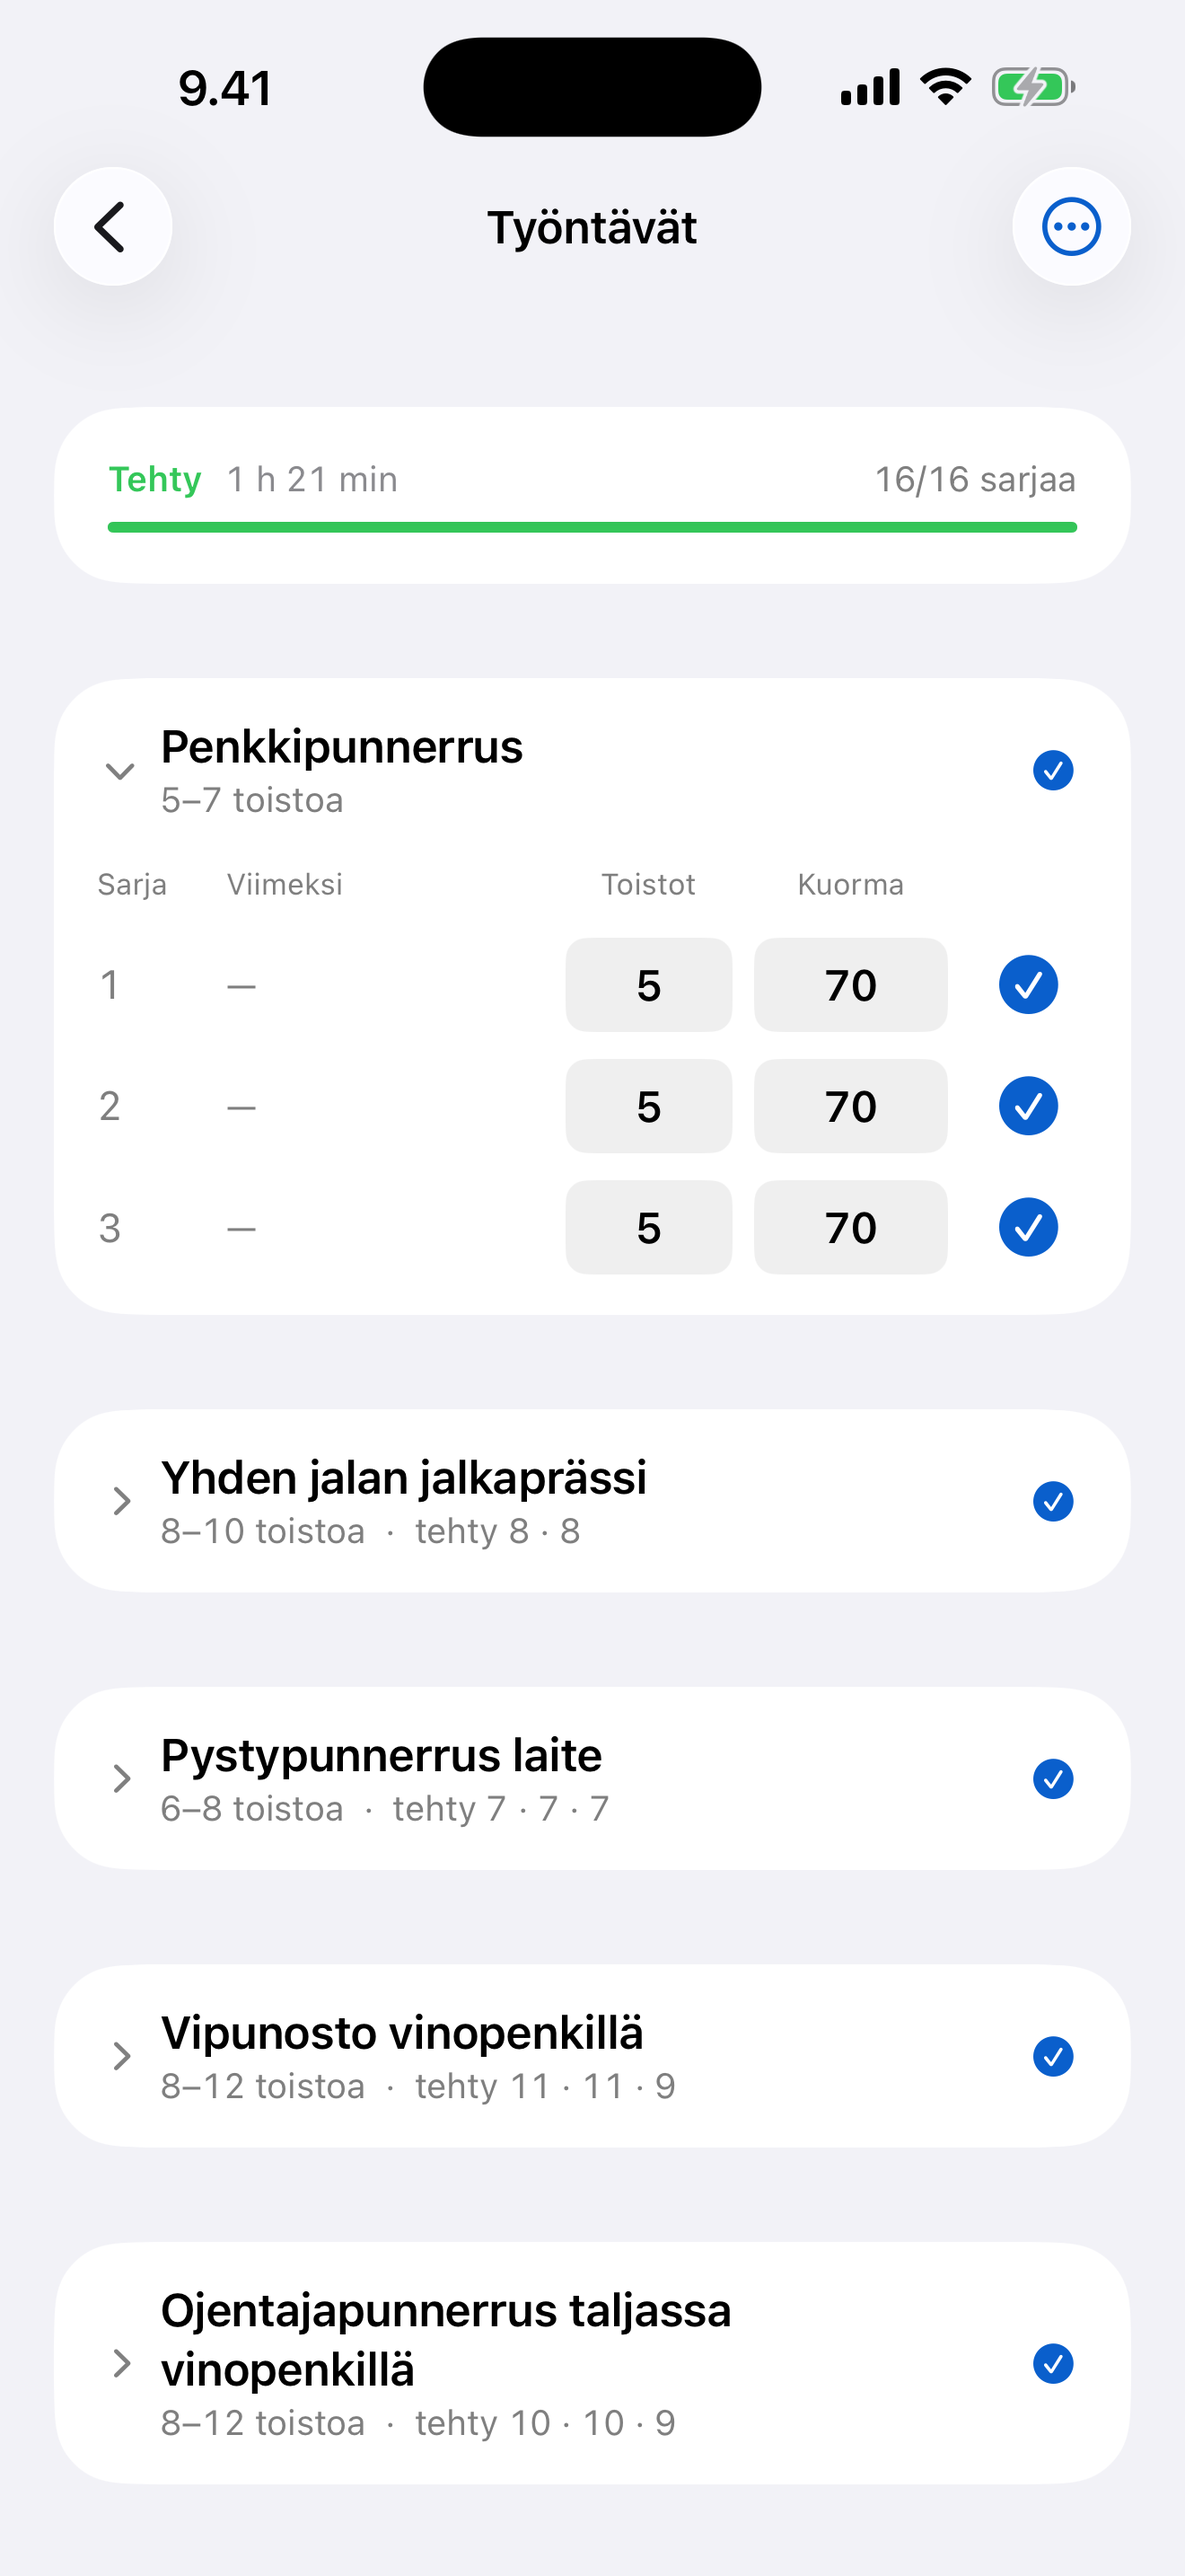
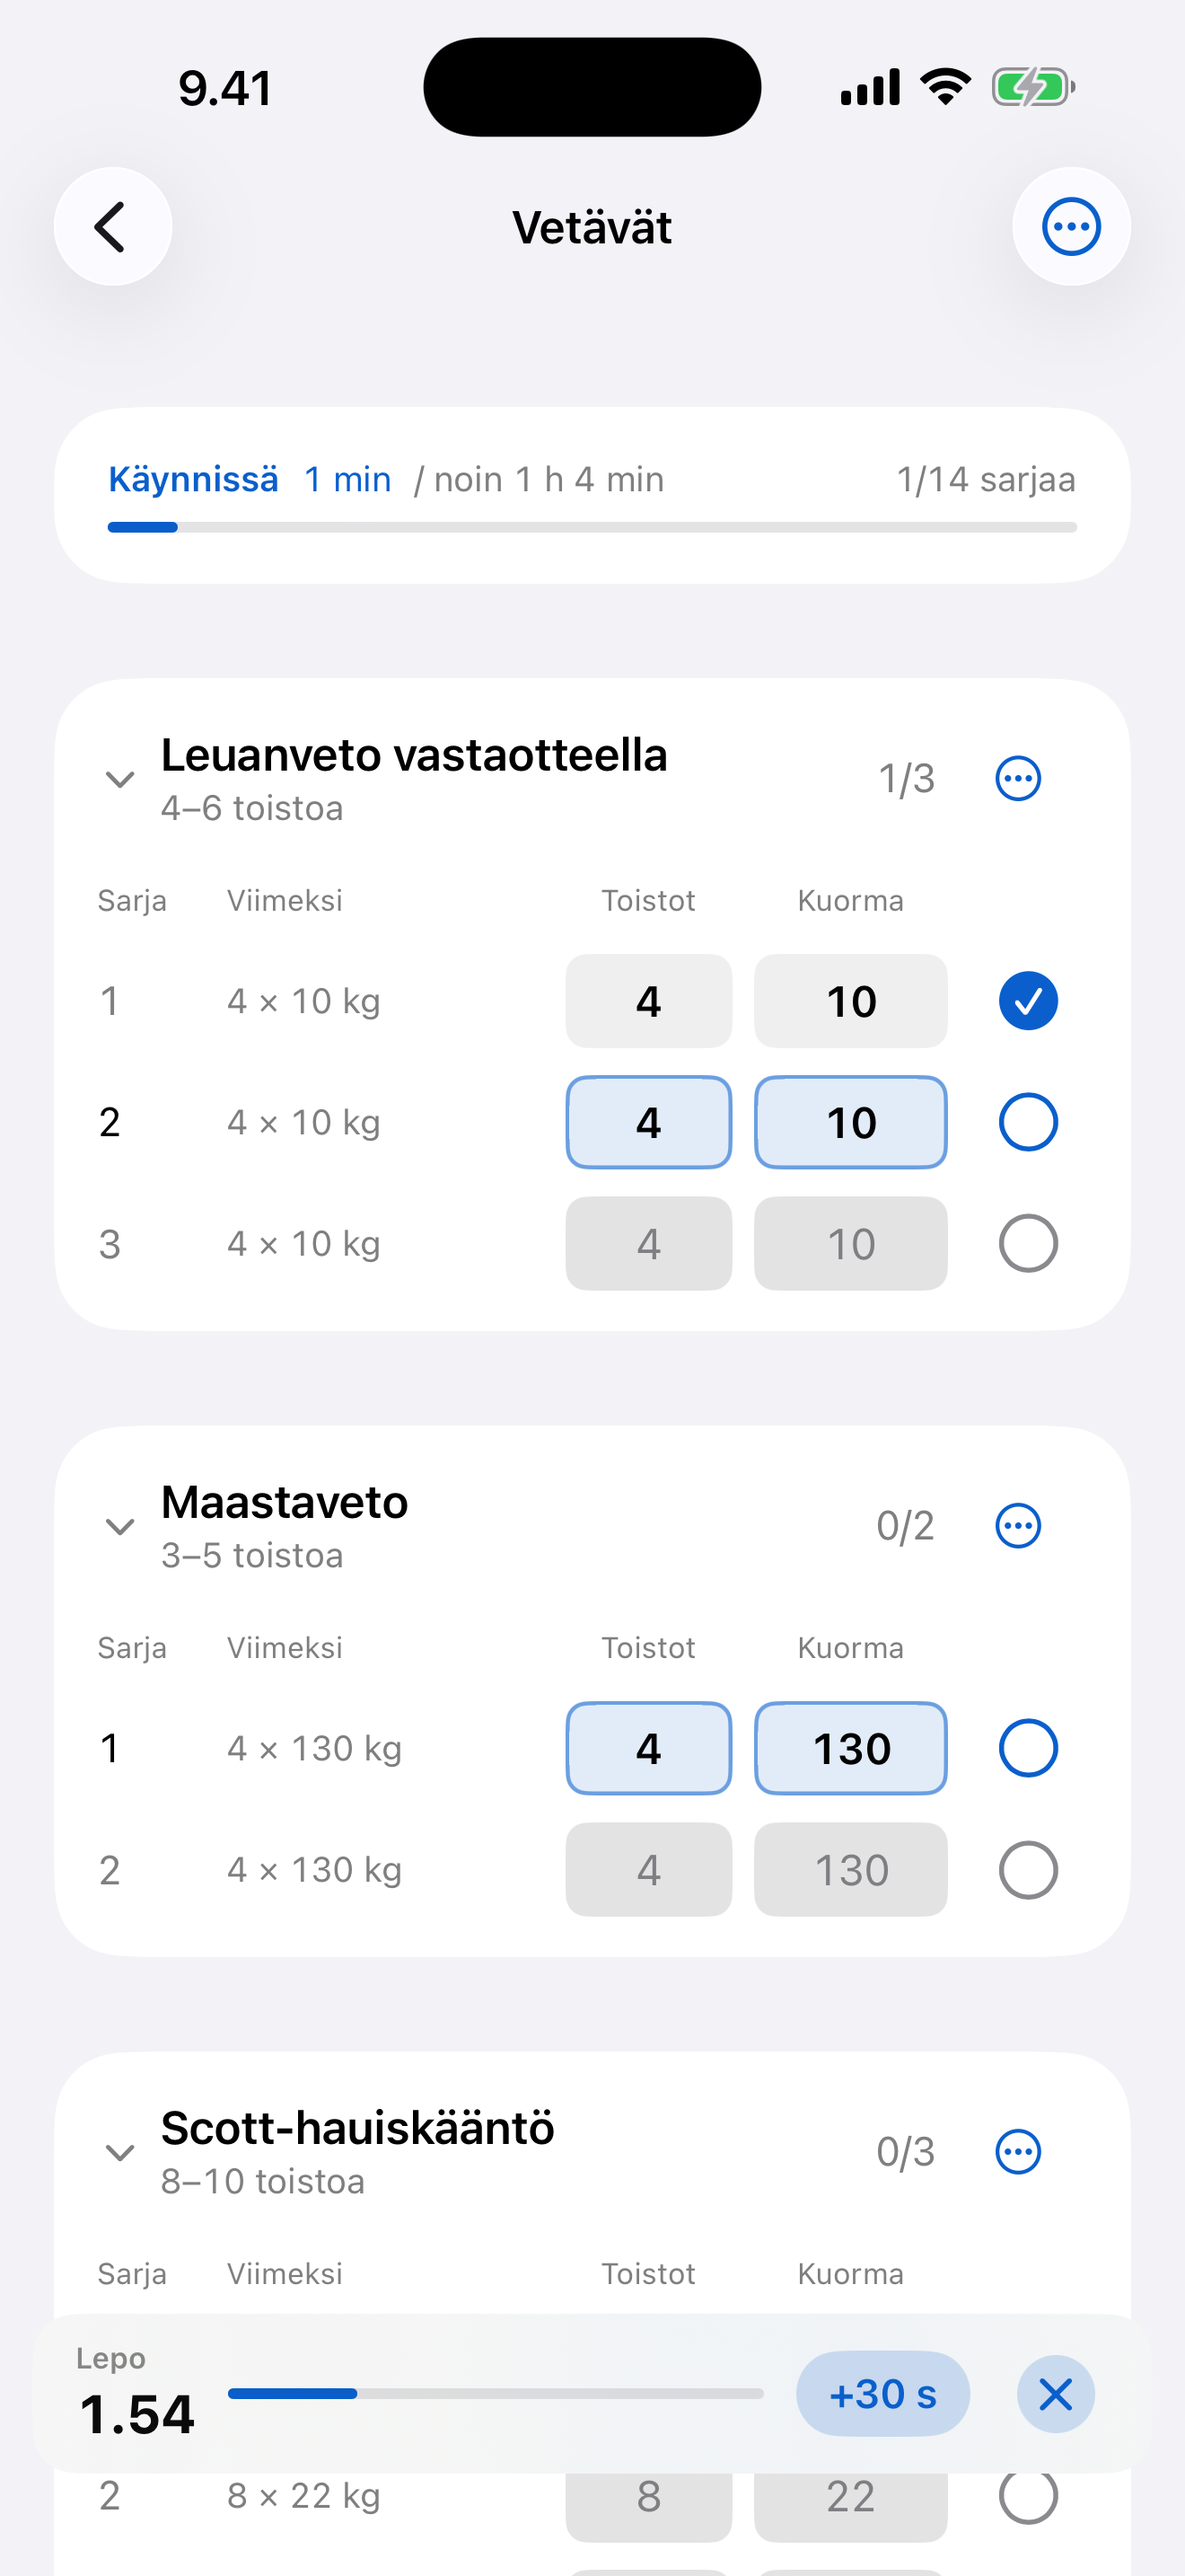
Health-kortti ei enää kehota yhdistämään jo yhdistettyä
Kortti näytti "Yhdistä Apple Health" jokaisen käynnistyksen alussa, koska
tila alkoi aina arvosta .notDetermined eikä iOS kerro lukuoikeuden tilaa.
Nappi kehotti tekemään jo tehdyn asian uudelleen, ja se näkyi sitä
pidempään mitä hitaampi verkko oli.

Kolme muutosta:

- Lupakyselyn näyttäminen muistetaan laitteella (UserDefaults). Se on
  meidän oma tietomme toisin kuin lukuoikeuden tila, joten käynnistys osaa
  aloittaa tilasta .asked.
- Health ei enää odota päivän API-hakua: sarjassa ajettuna kortti jäi
  odottamaan verkkoa, vaikka askeleet tulevat laitteelta.
- Kesken olevat kyselyt näkyvät riville "Haetaan Apple Healthista…"
  tyhjän kortin sijaan.

Treenikuva uusiksi: aloitetusta treenistä näkyvät viime kerran arvot,
esitäytetyt toistot ja kuormat sekä lepoajastin. Treeni poistettiin
kuvan jälkeen.

diff --git a/Volu/Features/TodayView.swift b/Volu/Features/TodayView.swift
@@ -93,7 +93,16 @@ struct TodayView: View {
                             // tyhjä tulos on kerrottava epävarmana: se voi olla
                             // joko puuttuva lupa tai puuttuva data. Väite
                             // "yhdistetty" ilman dataa oli harhaanjohtava.
-                            if health.hasCompletedQuery && !health.hasReceivedData {
+                            if !health.hasCompletedQuery {
+                                // Kyselyt ovat kesken: ilman tätä kortti olisi
+                                // tyhjä juuri sen ajan minkä haku kestää, eikä
+                                // mikään kertoisi että jotain on tulossa.
+                                HStack(spacing: 10) {
+                                    ProgressView()
+                                    Text("Haetaan Apple Healthista…")
+                                        .foregroundStyle(.secondary)
+                                }
+                            } else if health.hasCompletedQuery && !health.hasReceivedData {
                                 VStack(alignment: .leading, spacing: 6) {
                                     Text("Apple Healthista ei saatu tietoja.")
                                         .font(.subheadline.weight(.medium))
@@ -251,15 +260,24 @@ struct TodayView: View {
         }
         .task {
             model.configure(auth: auth, userId: userId)
-            await model.loadIfNeeded()
-            // Lupaa ei kysytä käynnistyksessä: käyttäjä painaa itse "Yhdistä".
-            // Jos oikeus on jo annettu, kysely onnistuu ja data päivittyy.
-            if health.availability == .notDetermined {
-                await health.requestAuthorization()
-            }
-            if health.availability == .asked {
-                await refreshHealth()
-            }
+            // Health ei odota päivän hakua eikä päinvastoin: sarjassa ajettuna
+            // Health-kortti jäi lataustilaan koko API-kutsun ajaksi, vaikka
+            // askeleet tulevat laitteelta eivätkä tarvitse verkkoa.
+            async let day: Void = model.loadIfNeeded()
+            async let healthRound: Void = startHealth()
+            _ = await (day, healthRound)
+        }
+    }
+
+    /// Käynnistyksen Health-kierros. Lupa kysytään vain kerran laitteella;
+    /// sen jälkeen kyselyt ajetaan suoraan, ja jos oikeutta ei ole, ne palaavat
+    /// tyhjinä ja kortti kertoo sen.
+    private func startHealth() async {
+        if health.availability == .notDetermined {
+            await health.requestAuthorization()
+        }
+        if health.availability == .asked {
+            await refreshHealth()
         }
     }
 

diff --git a/Volu/Health/HealthManager.swift b/Volu/Health/HealthManager.swift
@@ -27,7 +27,23 @@ final class HealthManager {
         case denied
     }
 
-    private(set) var availability: Availability = .notDetermined
+    private(set) var availability: Availability
+
+    /// Onko lupakysely näytetty tällä laitteella aiemmin.
+    ///
+    /// iOS ei kerro lukuoikeuden tilaa, joten sitä ei voi kysyä käynnistyksessä
+    /// — mutta *oman* kyselymme näyttäminen on meidän tietomme. Ilman tätä
+    /// jokainen käynnistys alkoi tilasta `.notDetermined`, ja käyttäjä joka oli
+    /// jo yhdistänyt näki "Yhdistä Apple Health" -napin siihen asti kunnes
+    /// kyselyt vastasivat. Nappi kehotti tekemään jo tehdyn asian uudelleen.
+    private static let didRequestKey = "health.didRequestAuthorization"
+
+    init() {
+        let asked = UserDefaults.standard.bool(forKey: Self.didRequestKey)
+        availability = HKHealthStore.isHealthDataAvailable()
+            ? (asked ? .asked : .notDetermined)
+            : .unavailable
+    }
     /// Onko yksikään kysely palauttanut dataa tämän käynnistyksen aikana.
     ///
     /// Tämä erottaa "lupa evätty" ja "dataa ei ole" toisistaan sen verran kuin
@@ -129,6 +145,7 @@ final class HealthManager {
         }
         do {
             try await store.requestAuthorization(toShare: [], read: readTypes)
+            UserDefaults.standard.set(true, forKey: Self.didRequestKey)
             availability = .asked
         } catch {
             Self.log.error("HealthKit-lupa epäonnistui: \(error.localizedDescription, privacy: .public)")

diff --git a/Distribution/README.md b/Distribution/README.md
@@ -36,7 +36,8 @@ ja Apple skaalaa 6.9" kuvat pienemmille laitteille itse.
 Suositeltu järjestys App Store Connectiin (kolme ensimmäistä näkyy
 hakutuloksissa, joten vahvin tarina ensin):
 
-1. `02-treeni.png` — sarjan kirjaus, toistot ja kuormat
+1. `02-treeni.png` — sarjan kirjaus: viime kerran arvot, esitäytetyt
+   toistot ja kuormat sekä lepoajastin
 2. `03-ravinto.png` — päivän energia ja makrot
 3. `08-ai-arvio.png` — tekoälyn tekemä ateria-arvio (Pron kärki)
 4. `01-tanaan.png` — päivän yhteenveto, askeleet ja yöuni
@@ -52,6 +53,9 @@ omalta tililtä. Kaksi asiaa on siksi hoidettu erikseen:
   sovelluksessa ei voi muokata. Nimi vaihdettiin kannassa kuvan ajaksi
   ("Mikko Laine") ja palautettiin heti perään. Jos kuva otetaan uudelleen,
   tee sama — muuten kauppasivulle päätyy oikea nimi.
+- **Treenikuvan treeni on aloitettu kuvaa varten ja poistettu heti perään.**
+  "Viimeksi"-sarake täyttyy vasta kun treeni on aloitettu ohjelmasta, joten
+  valmiiksi kirjatusta treenistä ei saa kuvaa jossa vertailuarvot näkyvät.
 - **Apple Health -kortti näyttää dataa.** Simulaattorin Health-sovellukseen
   syötettiin käsin askeleet (8 432) ja yksi yö unta (7 h 1 min). Ilman niitä
   kortissa lukee "Apple Healthista ei saatu tietoja", mikä lukee kuvassa
